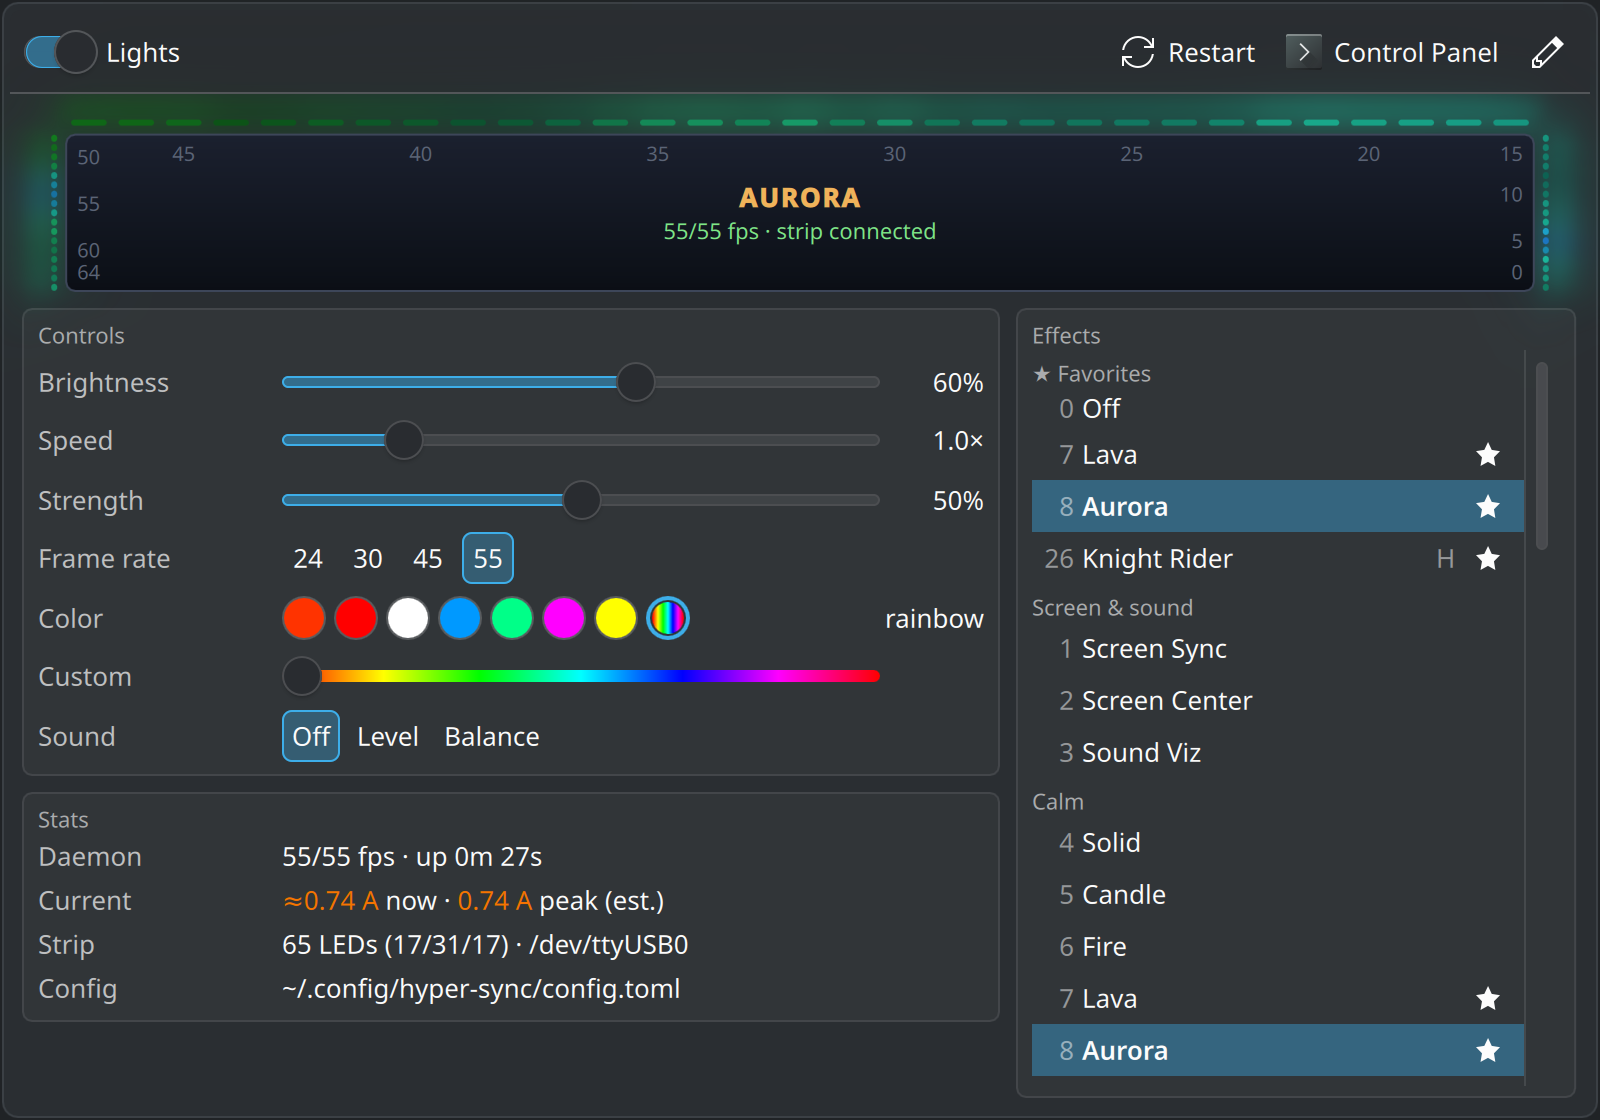
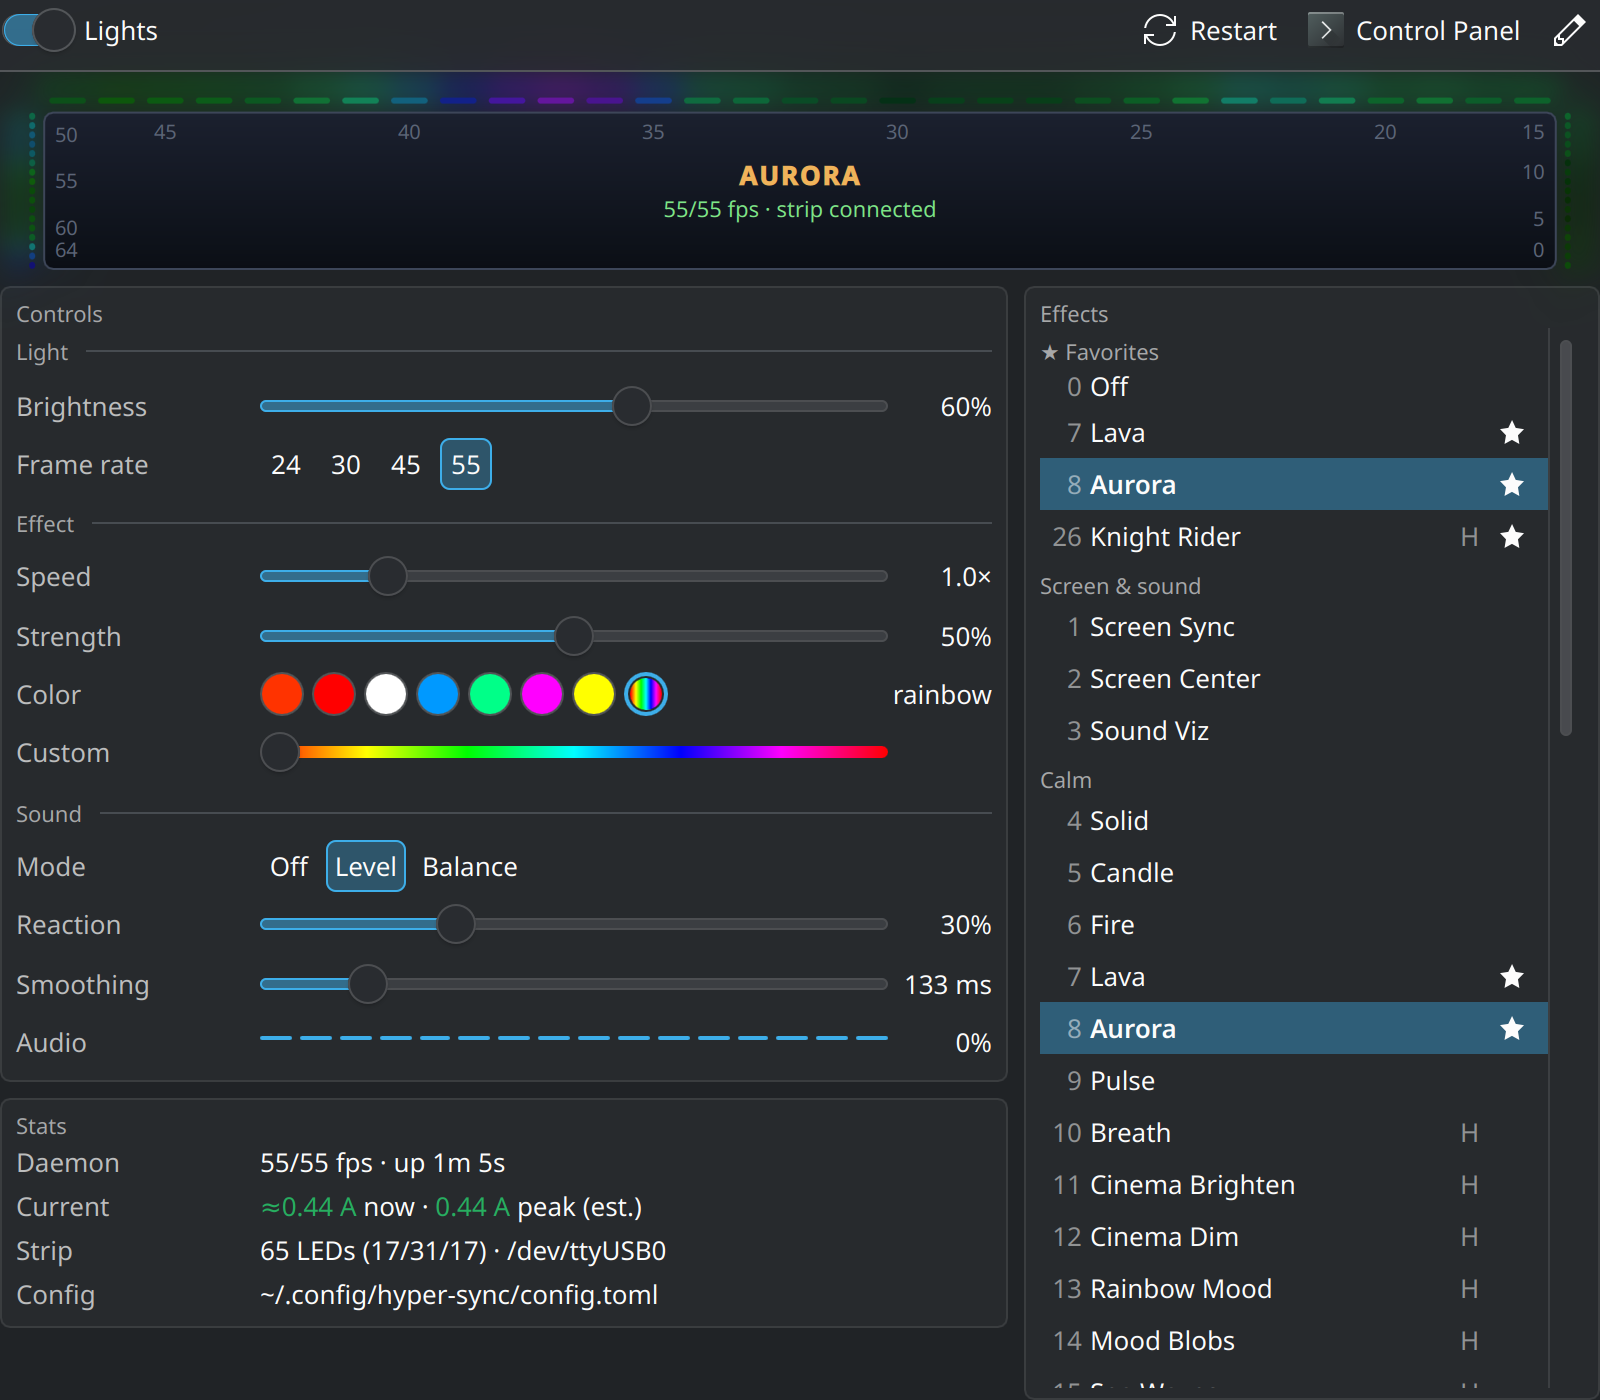
Group the Plasma widget's controls as the TUI does, with one sound slider.
- Controls sit under Light, Effect, Screen sync and Sound headings, each
  a dim title with a rule across the row; Frame rate moves up under
  Light, and the labels drop the prefix their heading already gives
  (Mode, Smoothing). Effect and Screen sync hide when the current
  effect uses none of their controls.
- Reaction and Sensitivity are one Reaction slider that sets both to
  the same value, sent in one `ctl set`. The TUI and tray menu still
  set them apart.
- README: the widget's controls by group, and a new screenshot rendered
  from the QML (OpenGL, so the strip's glow shows) against an isolated
  daemon running Aurora with sound on.

Changed region(s): [[0.0, 0.0, 1.0, 1.0], [0.1562, 0.75, 0.4375, 0.9375]]

diff --git a/plasmoid/contents/ui/FullRepresentation.qml b/plasmoid/contents/ui/FullRepresentation.qml
@@ -144,6 +144,24 @@ PlasmaExtras.Representation {
         opacity: 0.7
     }
 
+    // A group of controls, like the TUI's "─ light" lines: a dim title, then a rule across the row.
+    component Group: RowLayout {
+        property alias text: heading.text
+        Layout.fillWidth: true
+        Layout.topMargin: Kirigami.Units.largeSpacing
+        Layout.bottomMargin: Kirigami.Units.smallSpacing
+        spacing: Kirigami.Units.largeSpacing
+
+        PlasmaComponents3.Label {
+            id: heading
+            font: Kirigami.Theme.smallFont
+            opacity: 0.6
+        }
+        Kirigami.Separator {
+            Layout.fillWidth: true
+        }
+    }
+
     Layout.minimumWidth: Kirigami.Units.gridUnit * 20
     Layout.minimumHeight: Kirigami.Units.gridUnit * 20
     Layout.preferredWidth: Kirigami.Units.gridUnit * 44
@@ -248,6 +266,10 @@ PlasmaExtras.Representation {
                         Panel {
                             title: "Controls"
 
+                            Group {
+                                text: "Light"
+                                Layout.topMargin: Kirigami.Units.smallSpacing
+                            }
                             Row {
                                 label: "Brightness"
                                 value: full.pct(root.st.brightness)
@@ -256,6 +278,20 @@ PlasmaExtras.Representation {
                                     from: 0
                                     to: 1
                                 }
+                            }
+                            Row {
+                                label: "Frame rate"
+                                Choice {
+                                    key: "fps"
+                                    options: [[24, "24"], [30, "30"], [45, "45"], [55, "55"]]
+                                }
+                                Item {
+                                    Layout.fillWidth: true
+                                }
+                            }
+                            Group {
+                                visible: !!(full.effect.uses.speed || full.effect.uses.power || full.effect.uses.color) || root.st.effect === "candle"
+                                text: "Effect"
                             }
                             Row {
                                 visible: full.effect.uses.speed ?? false
@@ -275,16 +311,6 @@ PlasmaExtras.Representation {
                                     key: "power"
                                     from: 0
                                     to: 1
-                                }
-                            }
-                            Row {
-                                label: "Frame rate"
-                                Choice {
-                                    key: "fps"
-                                    options: [[24, "24"], [30, "30"], [45, "45"], [55, "55"]]
-                                }
-                                Item {
-                                    Layout.fillWidth: true
                                 }
                             }
                             Row {
@@ -356,6 +382,10 @@ PlasmaExtras.Representation {
                                     to: 1
                                 }
                             }
+                            Group {
+                                visible: full.screenSync
+                                text: "Screen sync"
+                            }
                             Row {
                                 visible: full.screenSync
                                 label: "Gamma"
@@ -368,7 +398,7 @@ PlasmaExtras.Representation {
                             }
                             Row {
                                 visible: full.screenSync
-                                label: "Screen smoothing"
+                                label: "Smoothing"
                                 value: full.ms(600 * (root.st.screen_smoothing ?? 0) ** 2)
                                 ValueSlider {
                                     key: "screen_smoothing"
@@ -376,8 +406,11 @@ PlasmaExtras.Representation {
                                     to: 1
                                 }
                             }
+                            Group {
+                                text: "Sound"
+                            }
                             Row {
-                                label: "Sound"
+                                label: "Mode"
                                 Choice {
                                     key: "sound_mode"
                                     options: [["off", "Off"], ["level", "Level"], ["balance", "Balance"]]
@@ -390,25 +423,17 @@ PlasmaExtras.Representation {
                                 visible: full.soundOn
                                 label: "Reaction"
                                 value: full.pct(root.st.reactivity)
+                                // One knob for both: reactivity and sensitivity always move together here.
                                 ValueSlider {
                                     key: "reactivity"
                                     from: 0
                                     to: 1
+                                    onMoved: root.set("sensitivity", Math.round(value * 100) / 100)
                                 }
                             }
                             Row {
                                 visible: full.soundOn
-                                label: "Sensitivity"
-                                value: full.pct(root.st.sensitivity)
-                                ValueSlider {
-                                    key: "sensitivity"
-                                    from: 0
-                                    to: 1
-                                }
-                            }
-                            Row {
-                                visible: full.soundOn
-                                label: "Sound smoothing"
+                                label: "Smoothing"
                                 value: full.ms(50 + 550 * (root.st.audio_smoothing ?? 0))
                                 ValueSlider {
                                     key: "audio_smoothing"

diff --git a/README.md b/README.md
@@ -214,11 +214,11 @@ The right-click menu is built from the live settings: a status line, a *Lights o
 
 ![The Plasma widget's popup: the strip preview, controls, stats and the effect list](docs/media/plasma-widget.png)
 
-<sub>Rendered from the widget's QML (offscreen) with the colors and stats of an isolated daemon running Aurora (`driver = "none"`).</sub>
+<sub>Rendered from the widget's QML (offscreen) with the colors and stats of an isolated daemon running Aurora with sound on (`driver = "none"`).</sub>
 
 A System Tray widget that sits next to Brightness and Color and opens the TUI's layout as a popup: the strip around a screen on top (live colors and glow, every 5th LED numbered, effect and frame rate inside), then **controls** and **stats** beside the **effect list** (stacked in a narrow popup). The header has the *Lights* switch, **Restart**, **Control Panel** and the settings file (and **Choose Screen…** during screen sync).
 
-Controls: brightness, speed, strength, frame rate, color (presets plus a hue slider, the TUI's dial), candle warmth, screen-sync gamma and smoothing, sound mode with reaction, sensitivity, smoothing and a live spectrum. Only the ones the current effect uses are shown (the TUI dims the rest). Stats: frame rate and uptime, estimated LED current now and peak, strip and port, capture size, config file. Effects: Off and the favorites, then each group, numbered as in the TUI, with `H` on the Hyperion ports; ★ pins or unpins a favorite.
+Controls, grouped as in the TUI: light (brightness, frame rate), effect (speed, strength, color presets plus a hue slider, the TUI's dial, candle warmth), screen sync (gamma, smoothing) and sound (mode, one reaction slider that sets reaction and sensitivity together, smoothing, a live spectrum). Only the ones the current effect uses are shown (the TUI dims the rest). Stats: frame rate and uptime, estimated LED current now and peak, strip and port, capture size, config file. Effects: Off and the favorites, then each group, numbered as in the TUI, with `H` on the Hyperion ports; ★ pins or unpins a favorite.
 
 Its tray icon is the app icon, greyed while the lights are off. **Click** opens the popup, **middle-click** the control panel (TUI), **right-click** a menu (lights on, control panel, settings file, restart effect, quit). It drives the daemon through `hyper-sync ctl` and offers to start it when it isn't running.
 
